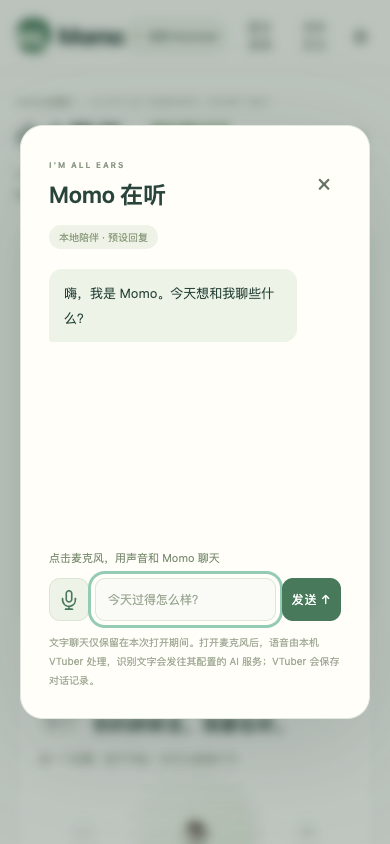
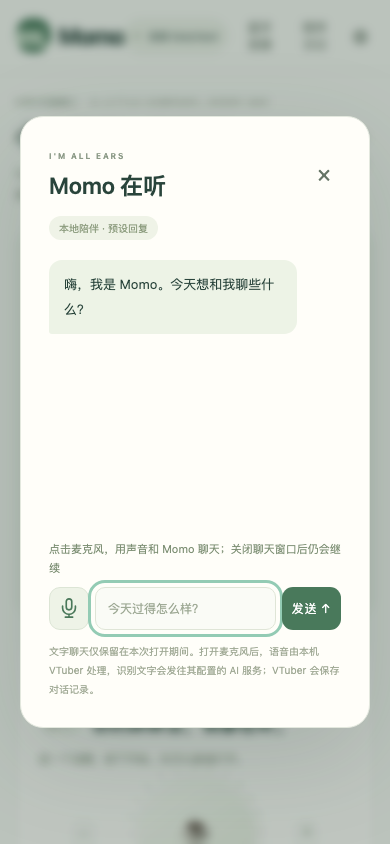
feat: keep voice chat active when closing chat dialog

diff --git a/app/index.html b/app/index.html
@@ -9,6 +9,7 @@
     </header>
     <main>
       <section class="greeting"><div><div class="eyebrow" id="date-label">A LITTLE COMPANY, EVERY DAY</div><h1>小小陪伴，<span>刚刚好。</span></h1><p>不用做什么特别的事，和 Momo 待一会儿就很好。</p></div><div class="days"><span class="day-spark">✳</span><div>我们相伴的<big>第 <b id="day-count">1</b> 天</big></div></div></section>
+      <section id="voice-panel" class="voice-panel" aria-label="语音聊天状态" hidden><span id="voice-panel-status" role="status" aria-live="polite"></span><div class="voice-panel-actions"><button id="voice-reopen" type="button" class="secondary-button">查看对话</button><button id="voice-stop" type="button" class="secondary-button">关闭麦克风</button></div></section>
       <div class="playground">
         <section class="pet-room" aria-label="Momo 的小房间">
           <div class="room-top"><span class="room-label"><i></i> MOMO 的小天地</span><span class="mood-pill" id="mood-label">✦ 今天心情晴朗</span></div>
@@ -49,7 +50,7 @@
     </main>
   </div>
   <dialog id="diary-dialog"><div class="dialog-head"><div><span class="eyebrow">OUR LITTLE DAYS</span><h2>和你的陪伴日记</h2></div><button class="close-dialog icon-button" aria-label="关闭日记">×</button></div><p class="dialog-intro">把普通日子里的小幸福，悄悄收好。最多保留最近 200 条。</p><div id="diary-list"></div><button class="secondary-button" id="export-diary">导出日记 ↓</button></dialog>
-  <dialog id="chat-dialog"><div class="dialog-head"><div><span class="eyebrow">I'M ALL EARS</span><h2>Momo 在听</h2></div><button class="close-dialog icon-button" aria-label="关闭聊天">×</button></div><span class="chat-badge" id="chat-badge">本地陪伴 · 预设回复</span><div class="messages" id="messages" aria-live="polite"></div><p id="voice-status" role="status" aria-live="polite">点击麦克风，用声音和 Momo 聊天</p><form id="chat-form"><button id="voice-toggle" type="button" class="mic-button" aria-label="打开麦克风" aria-pressed="false" aria-describedby="voice-status" title="打开麦克风"><svg viewBox="0 0 24 24" width="22" height="22" fill="none" stroke="currentColor" stroke-width="1.8" stroke-linecap="round" aria-hidden="true"><rect x="9" y="2" width="6" height="12" rx="3"/><path d="M5 10v2a7 7 0 0 0 14 0v-2M12 19v3M8 22h8"/></svg></button><input id="chat-input" placeholder="今天发生了什么呢？" aria-label="和 Momo 说句话" maxlength="2000" autocomplete="off" required><button class="primary-button" id="send-chat" type="submit">发送 ↑</button></form><p class="privacy-note">文字聊天仅保留在本次打开期间。打开麦克风后，语音由本机 VTuber 处理，识别文字会发往其配置的 AI 服务；VTuber 会保存对话记录。</p></dialog>
+  <dialog id="chat-dialog"><div class="dialog-head"><div><span class="eyebrow">I'M ALL EARS</span><h2>Momo 在听</h2></div><button class="close-dialog icon-button" aria-label="关闭聊天">×</button></div><span class="chat-badge" id="chat-badge">本地陪伴 · 预设回复</span><div class="messages" id="messages" aria-live="polite"></div><p id="voice-status" role="status" aria-live="polite">点击麦克风，用声音和 Momo 聊天；关闭聊天窗口后仍会继续</p><form id="chat-form"><button id="voice-toggle" type="button" class="mic-button" aria-label="打开麦克风" aria-pressed="false" aria-describedby="voice-status" title="打开麦克风"><svg viewBox="0 0 24 24" width="22" height="22" fill="none" stroke="currentColor" stroke-width="1.8" stroke-linecap="round" aria-hidden="true"><rect x="9" y="2" width="6" height="12" rx="3"/><path d="M5 10v2a7 7 0 0 0 14 0v-2M12 19v3M8 22h8"/></svg></button><input id="chat-input" placeholder="今天发生了什么呢？" aria-label="和 Momo 说句话" maxlength="2000" autocomplete="off" required><button class="primary-button" id="send-chat" type="submit">发送 ↑</button></form><p class="privacy-note">文字聊天仅保留在本次打开期间。打开麦克风后，语音由本机 VTuber 处理，识别文字会发往其配置的 AI 服务；VTuber 会保存对话记录。</p></dialog>
   <dialog id="settings-dialog"><div class="dialog-head"><div><span class="eyebrow">MAKE YOURSELF AT HOME</span><h2>把这里变成你的角落</h2></div><button class="close-dialog icon-button" aria-label="关闭设置">×</button></div><div class="setting-row"><div><b>窗口置顶</b><p>做事的时候，也能一眼看见 Momo。</p></div><input type="checkbox" id="always-top" aria-label="窗口置顶"></div><div class="setting-row"><div><b>音乐音量</b><p>声音从电脑播放。</p></div><input type="range" id="volume" min="0" max="100" value="25" aria-label="音乐音量"></div><section aria-label="键盘操作音效"><div class="setting-row"><div><b>键盘操作音效</b><p>按键、旋转和按压旋钮时，由键盘发声。</p></div><input type="checkbox" id="input-sound-enabled" aria-label="键盘操作音效" disabled></div><div class="setting-row"><div><b>操作音量 <output id="input-sound-value" for="input-sound-volume">—</output></b><p>保存到键盘，断电后保留。</p></div><input type="range" id="input-sound-volume" min="0" max="100" value="30" aria-label="键盘操作音量" disabled></div><div class="form-actions"><button type="button" class="secondary-button" id="input-sound-preview" disabled>键盘试听</button><button type="button" class="secondary-button" id="input-sound-refresh" disabled>重新读取</button></div><p id="input-sound-status" role="status">连接键盘后可设置；声音从键盘播放</p></section><div class="setting-row"><div><b>旋钮方向反转</b><p>实体旋钮方向与习惯相反时开启。</p></div><input type="checkbox" id="reverse-knob" aria-label="旋钮方向反转"></div><hr><h3>接入你自己的 AI</h3><p class="dialog-intro">不填写也能体验预设陪伴对话。支持兼容 Chat Completions 的 HTTPS 服务，密钥仅在本次打开期间使用。</p><form id="ai-form"><label>完整接口地址<input id="ai-endpoint" type="url" placeholder="https://api.deepseek.com/chat/completions" autocomplete="off"></label><label>模型名称<input id="ai-model" placeholder="填写服务商提供的模型名称" maxlength="100" autocomplete="off"></label><label>API 密钥<input id="ai-key" type="password" placeholder="仅保留在内存中" autocomplete="off"></label><div class="form-actions"><button class="primary-button" type="submit">使用 AI 对话</button><button class="secondary-button" id="ai-clear" type="button">恢复本地陪伴</button></div><p id="ai-status" role="status"></p></form><hr><button class="danger-button" id="clear-data">清除宠物与日记数据</button><p class="privacy-note">仅清除此设备上的 Momo 记录，无法恢复。</p></dialog>
   <div id="toast" class="toast" role="status"></div>
   <script type="module" src="./app.mjs"></script>

diff --git a/app/style.css b/app/style.css
@@ -11,3 +11,5 @@
 #battery-level{font-size:12px;color:#52755a;white-space:nowrap}
 
 #voice-status{font-size:11px;line-height:1.7;color:#7e9075;min-height:20px;margin:0 0 9px}#voice-status[data-state=error]{color:#a46b50}.mic-button{display:grid;place-items:center;flex:0 0 43px;width:43px;min-height:43px;background:#eef3e7;color:#4a785a;border:1px solid #dce5d5;border-radius:11px}.mic-button:hover{background:#e2eddc}.mic-button[aria-pressed=true]{background:#4a785a;color:white;border-color:#4a785a;box-shadow:0 0 0 3px #4a785a18}#chat-input:disabled{opacity:.65}@media(max-width:480px){#chat-form{gap:6px}#chat-form .primary-button{padding:12px 10px}.mic-button{flex-basis:40px;width:40px}}
+
+.voice-panel[hidden]{display:none}.voice-panel{display:flex;align-items:center;justify-content:space-between;gap:12px;padding:12px 16px;margin:0 0 20px;background:#edf3e7;border:1px solid #dce5d5;border-radius:14px}.voice-panel>span{font-size:12px;line-height:1.7;color:#4a785a;min-width:0}.voice-panel[data-state=error]>span{color:#a46b50}.voice-panel-actions{display:flex;gap:8px;flex-shrink:0}.voice-panel-actions button{white-space:nowrap;padding:9px 12px}@media(max-width:600px){.voice-panel{align-items:flex-start;flex-direction:column}.voice-panel-actions{align-self:flex-end}}

diff --git a/docs/VOICE-CHAT-REQUIREMENTS.md b/docs/VOICE-CHAT-REQUIREMENTS.md
@@ -1,7 +1,7 @@
 # Momo 语音聊天试用版需求 V0.1
 
 日期：2026-09-08
-状态：需求确认稿，尚未实现。
+状态：已实现，真人收音验收待完成。2026-09-09 更新：关闭聊天窗口后继续语音聊天。
 
 ## 1. 这版只解决一件事
 
@@ -16,9 +16,9 @@
 3. 直接对宠物说话；系统自动判断说话结束并发送，不需要逐句点击发送。
 4. 窗口显示识别出的文字和 Momo 的回答；电脑扬声器使用后端当前默认的 TTS 声音播放回答，前端不另选声音、不调用系统朗读替代。
 5. 回答结束后自动恢复倾听，用户可以直接说下一句，无需再次开启麦克风。
-6. 再次点击按钮“关闭麦克风”结束语音聊天，停止采集、发送和播放，丢弃未提交录音与迟到音频；关闭聊天窗口同样结束。
+6. 再次点击按钮“关闭麦克风”结束语音聊天，停止采集、发送和播放，丢弃未提交录音与迟到音频。关闭聊天窗口后仍继续聊天，主界面保留语音状态、查看对话和关闭麦克风入口；退出应用时结束语音。
 
-界面只需要麦克风开关、简单状态提示和对话文字。麦克风默认关闭，开启后显示“正在听”，处理时显示“正在想”，播放时显示“正在说”。首版实时聊天指开启后自动轮流对话：宠物思考和说话时暂停接收新的语音轮次，播放结束后自动恢复，避免把扬声器里的回答再次当成用户输入；暂不支持同时说话或语音抢话。服务未启动、麦克风未授权或请求失败时，显示明确原因，允许重新尝试。关闭聊天时停止录音和播放。
+界面只需要麦克风开关、简单状态提示和对话文字。麦克风默认关闭，开启后显示“正在听”，处理时显示“正在想”，播放时显示“正在说”。首版实时聊天指开启后自动轮流对话：宠物思考和说话时暂停接收新的语音轮次，播放结束后自动恢复，避免把扬声器里的回答再次当成用户输入；暂不支持同时说话或语音抢话。服务未启动、麦克风未授权或请求失败时，显示明确原因，允许重新尝试。关闭聊天窗口只隐藏对话，仍继续录音和播放；点击关闭麦克风或退出应用时停止。
 
 ## 3. 首要技术关注：前后端必须匹配
 
@@ -35,7 +35,7 @@
 
 已查看的源码中，ASR 接口默认采样率为 16 kHz，音频输入使用采样数组；音频输出消息为 `audio`，含音频和显示文字。开发时仍需核对当前实现的完整字段和消息顺序。
 
-Momo 当前没有真正的麦克风录音功能，Electron 权限策略及 macOS 麦克风用途说明也需要补齐。现有 `speak()` 只改变气泡文字，不能当作已实现语音播放。
+已接入麦克风采集、Electron 权限策略、macOS 麦克风用途说明及后端音频播放。`speak()` 仍只负责气泡文字，真实语音由独立音频模块播放。
 
 ## 4. 实现顺序
 
@@ -50,7 +50,7 @@ Momo 当前没有真正的麦克风录音功能，Electron 权限策略及 macOS
 - 进入“开始聊天”界面，只点击一次“打开麦克风”，使用电脑麦克风说一句中文，停顿后自动得到回答。
 - 能看到对应的识别文字和真实模型回答，电脑扬声器播放后端默认 TTS 声音。
 - 无需逐句点击按钮即可连续完成三轮；无重复发送、重叠播放、将宠物声音识别成用户输入或卡在等待状态。
-- 关闭麦克风或聊天窗口后停止采集和播放，不再继续提交或播出迟到回复。
+- 关闭麦克风或退出应用后停止采集和播放，不再继续提交或播出迟到回复。
 - 服务不可用或麦克风被拒绝时，界面能说明原因。
 - 前后端验证记录说明使用的服务版本、音频格式及实际跑通的消息流程。
 

diff --git a/docs/VOICE-CHAT-VALIDATION.md b/docs/VOICE-CHAT-VALIDATION.md
@@ -1,12 +1,12 @@
 # 麦克风聊天实现与验证
 
-日期：2026-09-08。
+日期：2026-09-08；2026-09-09 更新窗口关闭行为。
 
 ## 使用
 
-先启动本机 Open-LLM-VTuber，再打开 Momo 聊天窗口，点击输入框左侧麦克风。允许系统麦克风权限后说话，停顿约 900 ms 自动提交。回答结束并显示「正在听」后继续。再次点击麦克风、Escape 或关闭聊天窗口会停止采集、清除待播音频并断开当前语音会话。
+先启动本机 Open-LLM-VTuber，再打开 Momo 聊天窗口，点击输入框左侧麦克风。允许系统麦克风权限后说话，停顿约 900 ms 自动提交。回答结束并显示「正在听」后继续。关闭聊天窗口（关闭按钮、Escape、点击遮罩或键盘长按）仅隐藏对话，语音会话继续。主界面显示语音状态，并提供「查看对话」「关闭麦克风」。点击关闭麦克风或退出应用才停止采集、清除待播音频并断开当前会话。
 
-本轮新版打包在 `dist/voice/Momo-darwin-arm64/Momo.app`。需退出原来运行的 Momo，再启动新版；原版本仍在 `dist/Momo-darwin-arm64/Momo.app`。
+本轮新版打包在 `dist/voice-background/Momo-darwin-arm64/Momo.app`。需退出原来运行的 Momo，再启动新版；前一版仍在 `dist/voice/Momo-darwin-arm64/Momo.app`。
 
 ## 实际后端与协议
 
@@ -21,7 +21,7 @@
 - 一段话最多一分钟；连接、准备、等待回复有超时；拒绝麦克风、断网、解码失败都可重新点击重试。
 - Electron 仅允许当前本机主窗口的音频输入请求，拒绝摄像头及其他页面。打包包含麦克风用途说明。
 
-## 验证结果
+## 2026-09-08 初版验证结果
 
 - Node 自动化：26 项通过，覆盖原功能、连续三轮协议、顺序播放、重复发送防护、关闭/迟到消息、异常、权限边界与静态资产。
 - UI：原有 8 项通过；新增 4 项通过。修复了 Escape 关闭与录音清理的时间差。聊天窄屏没有横向溢出。
@@ -56,3 +56,11 @@ MOMO_VOICE_FIXTURE=/tmp/momo-voice-loop.wav node scripts/test-voice-electron.mjs
 ```
 
 参考：[VAD 本地资产与音频接口](https://docs.vad.ricky0123.com/user-guide/browser/)、[Electron 权限接口](https://www.electronjs.org/docs/latest/api/session)。后端消息字段以本机源码为准。
+
+## 2026-09-09 关闭窗口后继续语音
+
+聊天弹窗只管理显示，不再终止语音会话。关闭按钮、Escape、遮罩点击及键盘长按关闭弹窗后，仍保持原会话与播放队列；重新打开不重建后端历史。主界面的状态条提供查看对话、关闭麦克风入口；后台发生连接错误时保留错误提示。
+
+Electron 集成测试用合成 Web Audio 输入关闭弹窗后完成一轮真实后端 ASR/LLM/TTS 往返，恢复倾听，重新打开可看到消息；从主界面关闭麦克风后音轨全部释放，页面错误 0。真人收音和扬声器可听效果未在此测试中验收。
+
+UI 回归覆盖 7 项：连续三轮、Escape 后继续对话、权限拒绝、聊天窄屏、关闭按钮播放不中断、遮罩关闭播放不中断、主界面窄屏与断连提示。系统 Chrome 启动卡住后，使用本机 Playwright Chromium 复测。

diff --git a/README.md b/README.md
@@ -77,7 +77,7 @@ npx electron-packager . Momo --platform=darwin --arch=x64 --out=dist --overwrite
 
 - 说完停顿约一秒，自动识别文字并生成回答，使用 VTuber 当前 TTS 声音播放。
 - 「正在想／正在说」时暂停接收下一句话；恢复「正在听」后继续说，无需重复打开。
-- 再次点击麦克风、关闭聊天或按 Escape 即停止采集与播放。一次说话最多一分钟，不支持抢话。
+- 关闭聊天窗口或按 Escape 后仍可继续语音聊天；主界面显示语音状态，可查看对话或关闭麦克风。点击关闭麦克风或退出应用才停止采集与播放。一次说话最多一分钟，不支持抢话。
 - 麦克风开启时，文字发送也走 VTuber；关闭后恢复原来的本地预设／已配置 AI 文字聊天。
 - 语音识别走本机后端；识别文字及对话由 VTuber 配置的 AI 服务处理，VTuber 会保存历史。角色性格、模型和 TTS 声音沿用后端当前配置。
 
@@ -246,7 +246,7 @@ idf.py -C firmware -B "$PWD/firmware/build-ble" -D SDKCONFIG="$PWD/firmware/buil
 | `npm run package:mac` | 构建 Apple Silicon Mac 应用 |
 | `node scripts/smoke-desktop.mjs` | 检查打包应用的启动、八键渲染、Node 隔离和置顶 |
 
-固件宿主测试需要可用的 `cc`。界面测试默认使用 `/Applications/Google Chrome.app/Contents/MacOS/Google Chrome`；如果浏览器安装位置不同，需要调整 `playwright.config.mjs`。桌面启动检查前请先打包并关闭正在运行的 Momo，避免单实例与端口冲突。
+固件宿主测试需要可用的 `cc`。界面测试默认使用 `/Applications/Google Chrome.app/Contents/MacOS/Google Chrome`；如果浏览器安装位置不同，需要调整 `playwright.config.mjs`；本机已安装 Playwright Chromium 时，可用 `MOMO_TEST_BROWSER=bundled npm run test:ui`。桌面启动检查前请先打包并关闭正在运行的 Momo，避免单实例与端口冲突。
 
 ### 验证状态
 
